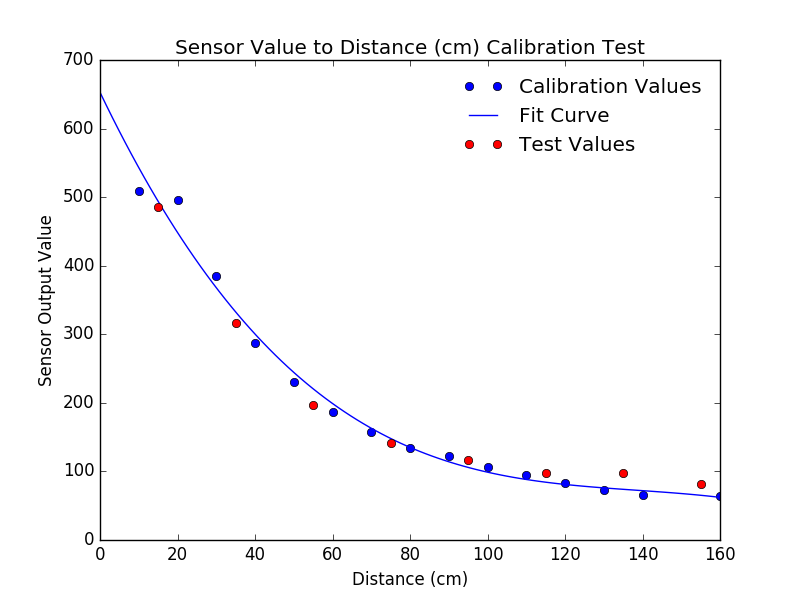
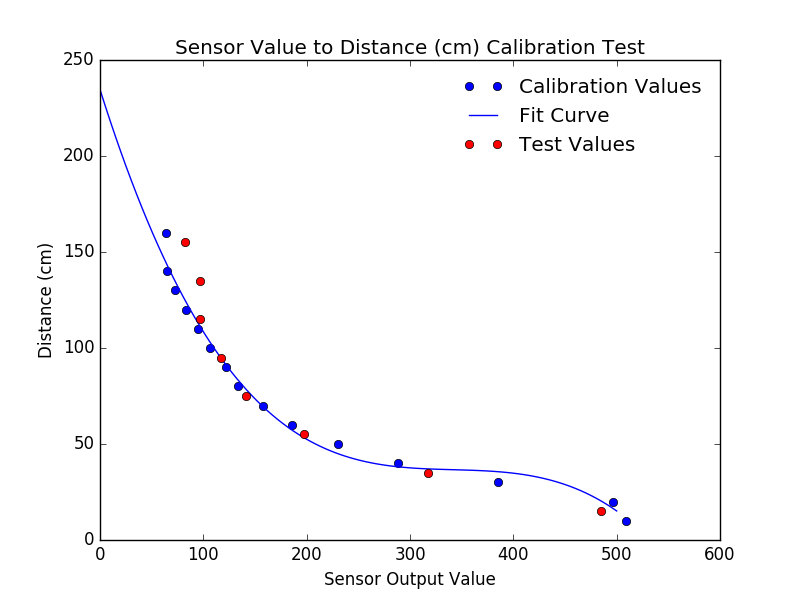
CHANGE: axes labels in calibration.py and made calibration.png proper graph

diff --git a/calibration.py b/calibration.py
@@ -23,8 +23,8 @@ keys_test, values_test = zip(*calibration_test.items())
 plt.plot(values_test,keys_test,'ro')
 
 plt.title("Sensor Value to Distance (cm) Calibration Test")
-plt.xlabel("Distance (cm)")
-plt.ylabel("Sensor Output Value")
+plt.ylabel("Distance (cm)")
+plt.xlabel("Sensor Output Value")
 legend = plt.legend(['Calibration Values', 'Fit Curve', 'Test Values'])
 legend.get_frame().set_linewidth(0.0)
 
